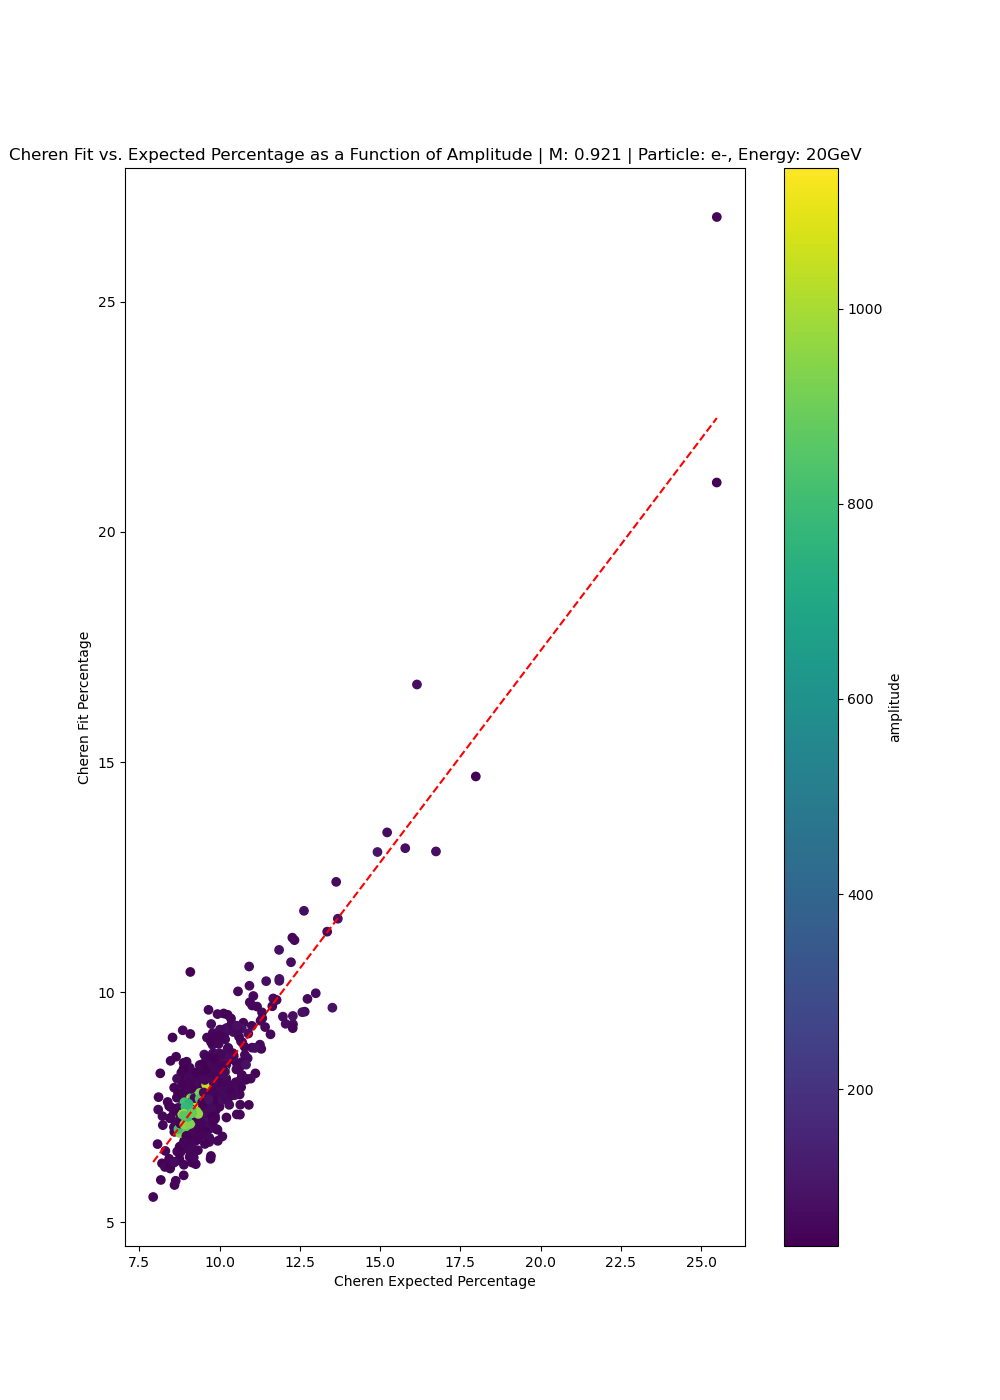
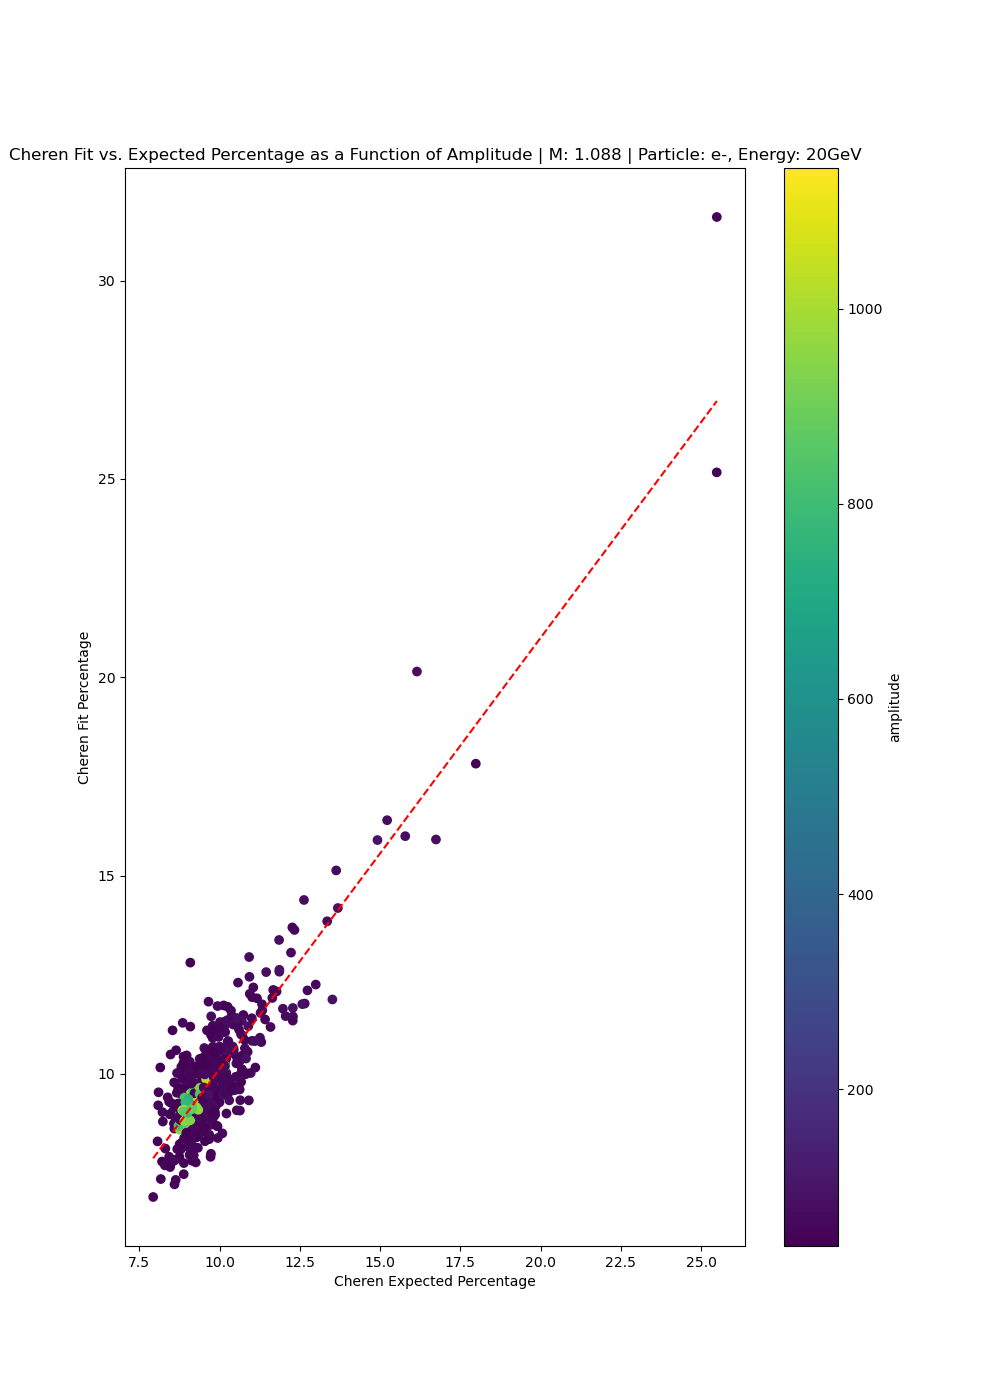
got fit working perfectly!

diff --git a/visualizations.py b/visualizations.py
@@ -85,7 +85,9 @@ class visualizations:
     def visualize_fit_vs_expected_histogram(self, cheren_fit_percents, cheren_expected_percents):
         cheren_fit_percents = np.array(cheren_fit_percents)
         cheren_expected_percents = np.array(cheren_expected_percents)
-
+        
+        fractions = cheren_fit_percents/cheren_expected_percents
+        print(np.mean(fractions))
         plt.figure()
         counts, bins = np.histogram(cheren_fit_percents/cheren_expected_percents,bins=30)
         plt.stairs(counts, bins, linewidth=2, color='black', fill=True, alpha=0.3)
@@ -93,5 +95,5 @@ class visualizations:
         plt.ylabel("Counts")
         plt.title(r"$\frac{Č_{fit}\%}{Č_{expected}\%}$ Distribution")
         plt.show(block=False)
-        input("Press enter to close")
+        input("Press enter to close...")
         plt.close()

diff --git a/fit_class.py b/fit_class.py
@@ -25,7 +25,7 @@ class simulation_fitter:
 
         self.sdl_number = sdl_number
         
-        self.scint_interp, scint_xmin, scint_xmax = self.create_interpolator(scint_prof, 10)
+        self.scint_interp, scint_xmin, scint_xmax = self.create_interpolator(scint_prof)
         self.cheren_interp, cheren_xmin, cheren_xmax = self.create_interpolator(cheren_prof)
        
         self.xmin = max(float(scint_xmin), float(cheren_xmin))
